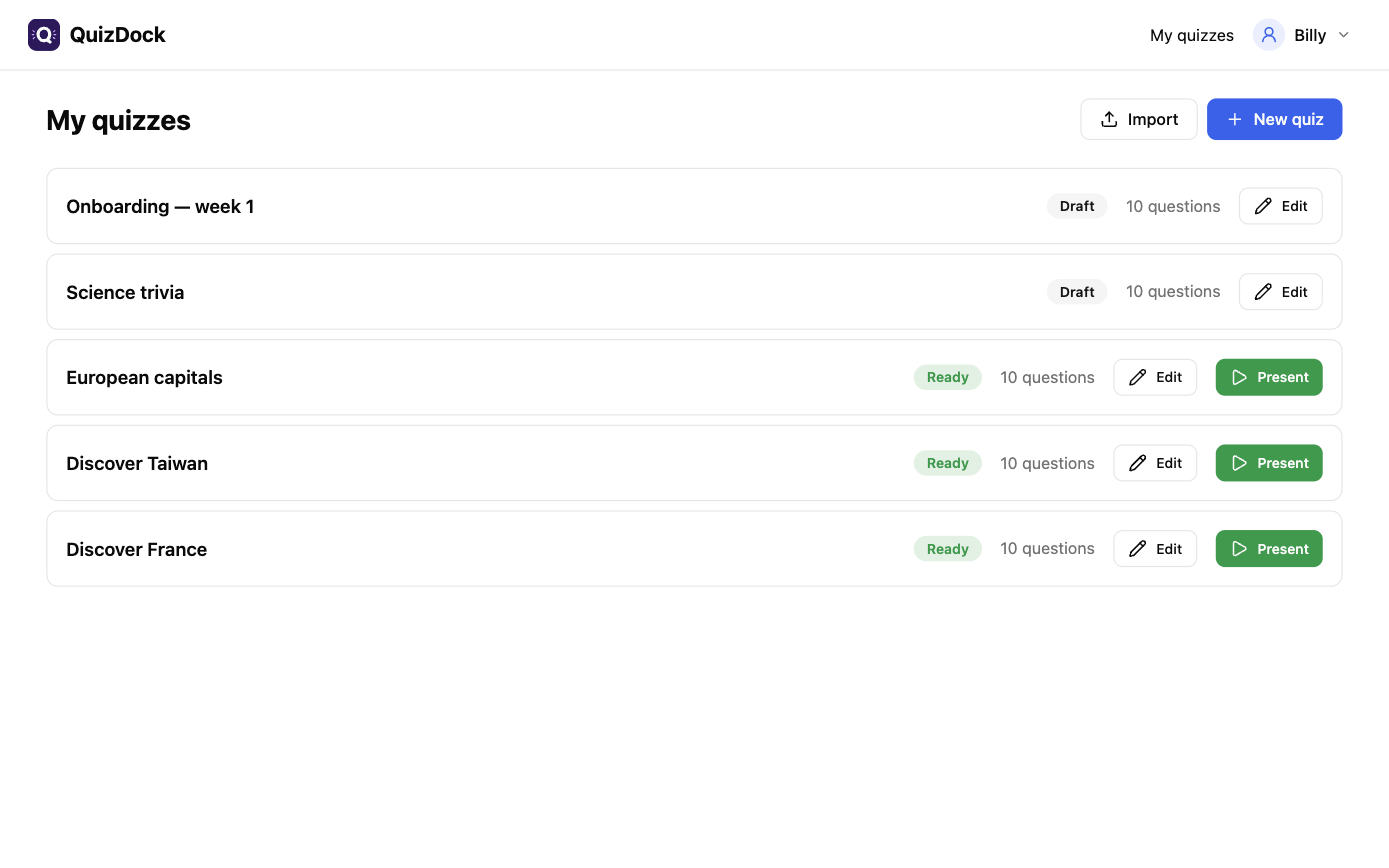
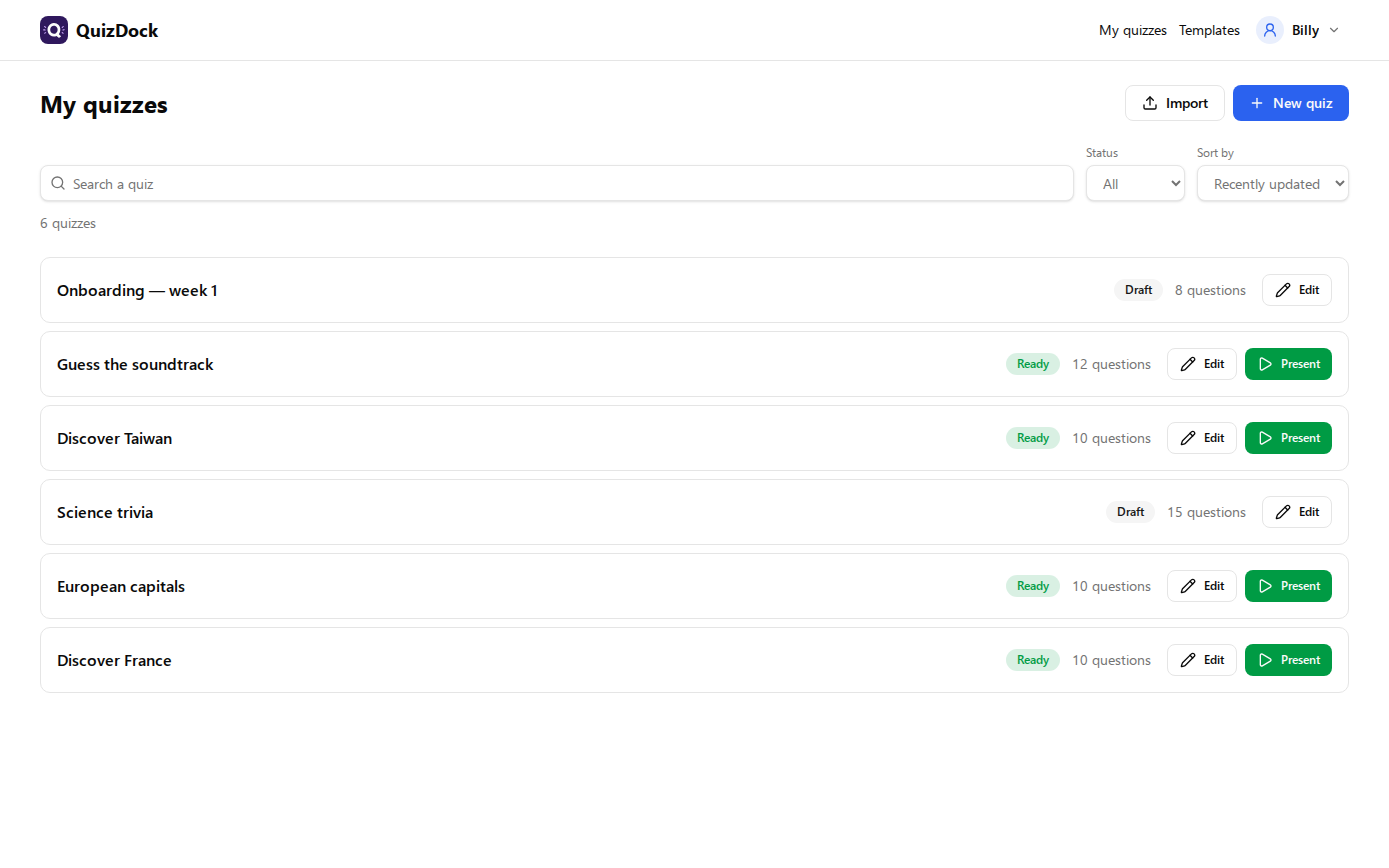
Screenshots: my quizzes refreshed, the shared templates added
Claude-Session: https://claude.ai/code/session_01AAH5GGY8m6YkXuQiyKfEAi

diff --git a/index.html b/index.html
@@ -232,7 +232,8 @@
         <div class="carousel" aria-roledescription="carousel" aria-label="QuizDock screenshots">
           <button class="carousel-btn prev" type="button" aria-label="Previous screenshot">‹</button>
           <div class="carousel-track" id="shots">
-            <figure class="slide"><img src="screenshots/my-quizzes.png" alt="My quizzes" loading="lazy" /><figcaption>My quizzes — your bank, import / export, one click to present</figcaption></figure>
+            <figure class="slide"><img src="screenshots/my-quizzes.png" alt="My quizzes" loading="lazy" /><figcaption>My quizzes — your bank: search, filter, import / export, one click to present</figcaption></figure>
+            <figure class="slide"><img src="screenshots/templates.png" alt="Shared templates" loading="lazy" /><figcaption>Templates — quizzes shared on the instance; take an independent copy</figcaption></figure>
             <figure class="slide"><img src="screenshots/editor.png" alt="Quiz builder" loading="lazy" /><figcaption>Quiz builder — 7 question types, video &amp; sound, slides, backgrounds, scoring rules</figcaption></figure>
             <figure class="slide"><img src="screenshots/console-lobby.png" alt="Host console — lobby" loading="lazy" /><figcaption>Host console — PIN, QR code, players in the room or remote, who hears the sound</figcaption></figure>
             <figure class="slide"><img src="screenshots/projection-lobby.png" alt="Projection — lobby" loading="lazy" /><figcaption>Projection — the big screen while players join</figcaption></figure>
